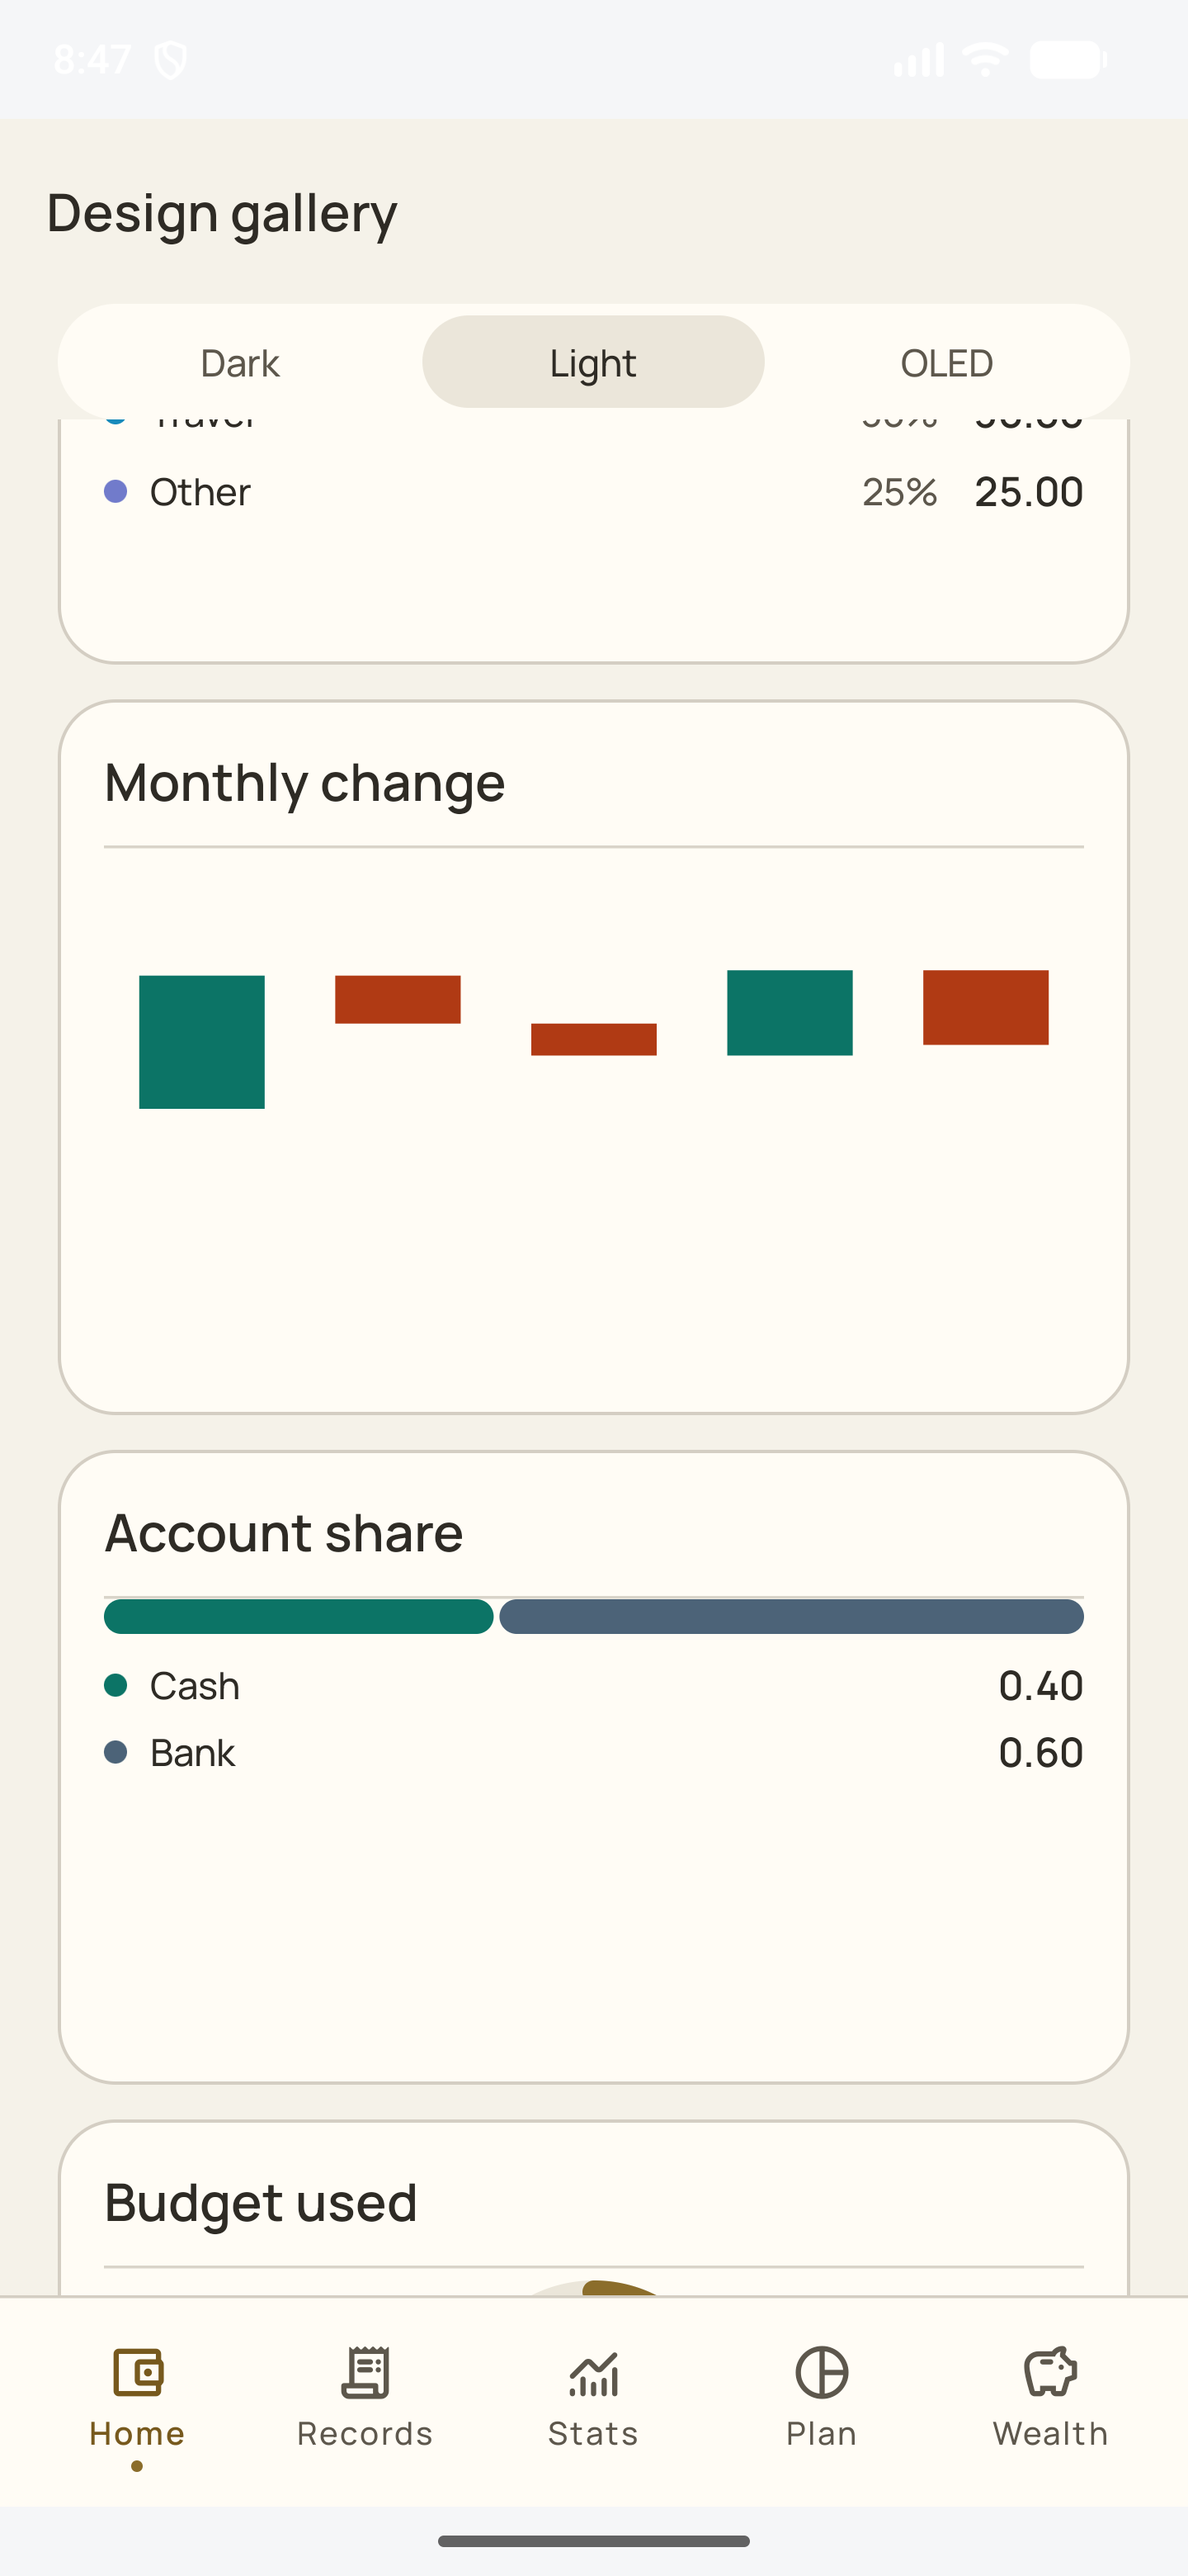
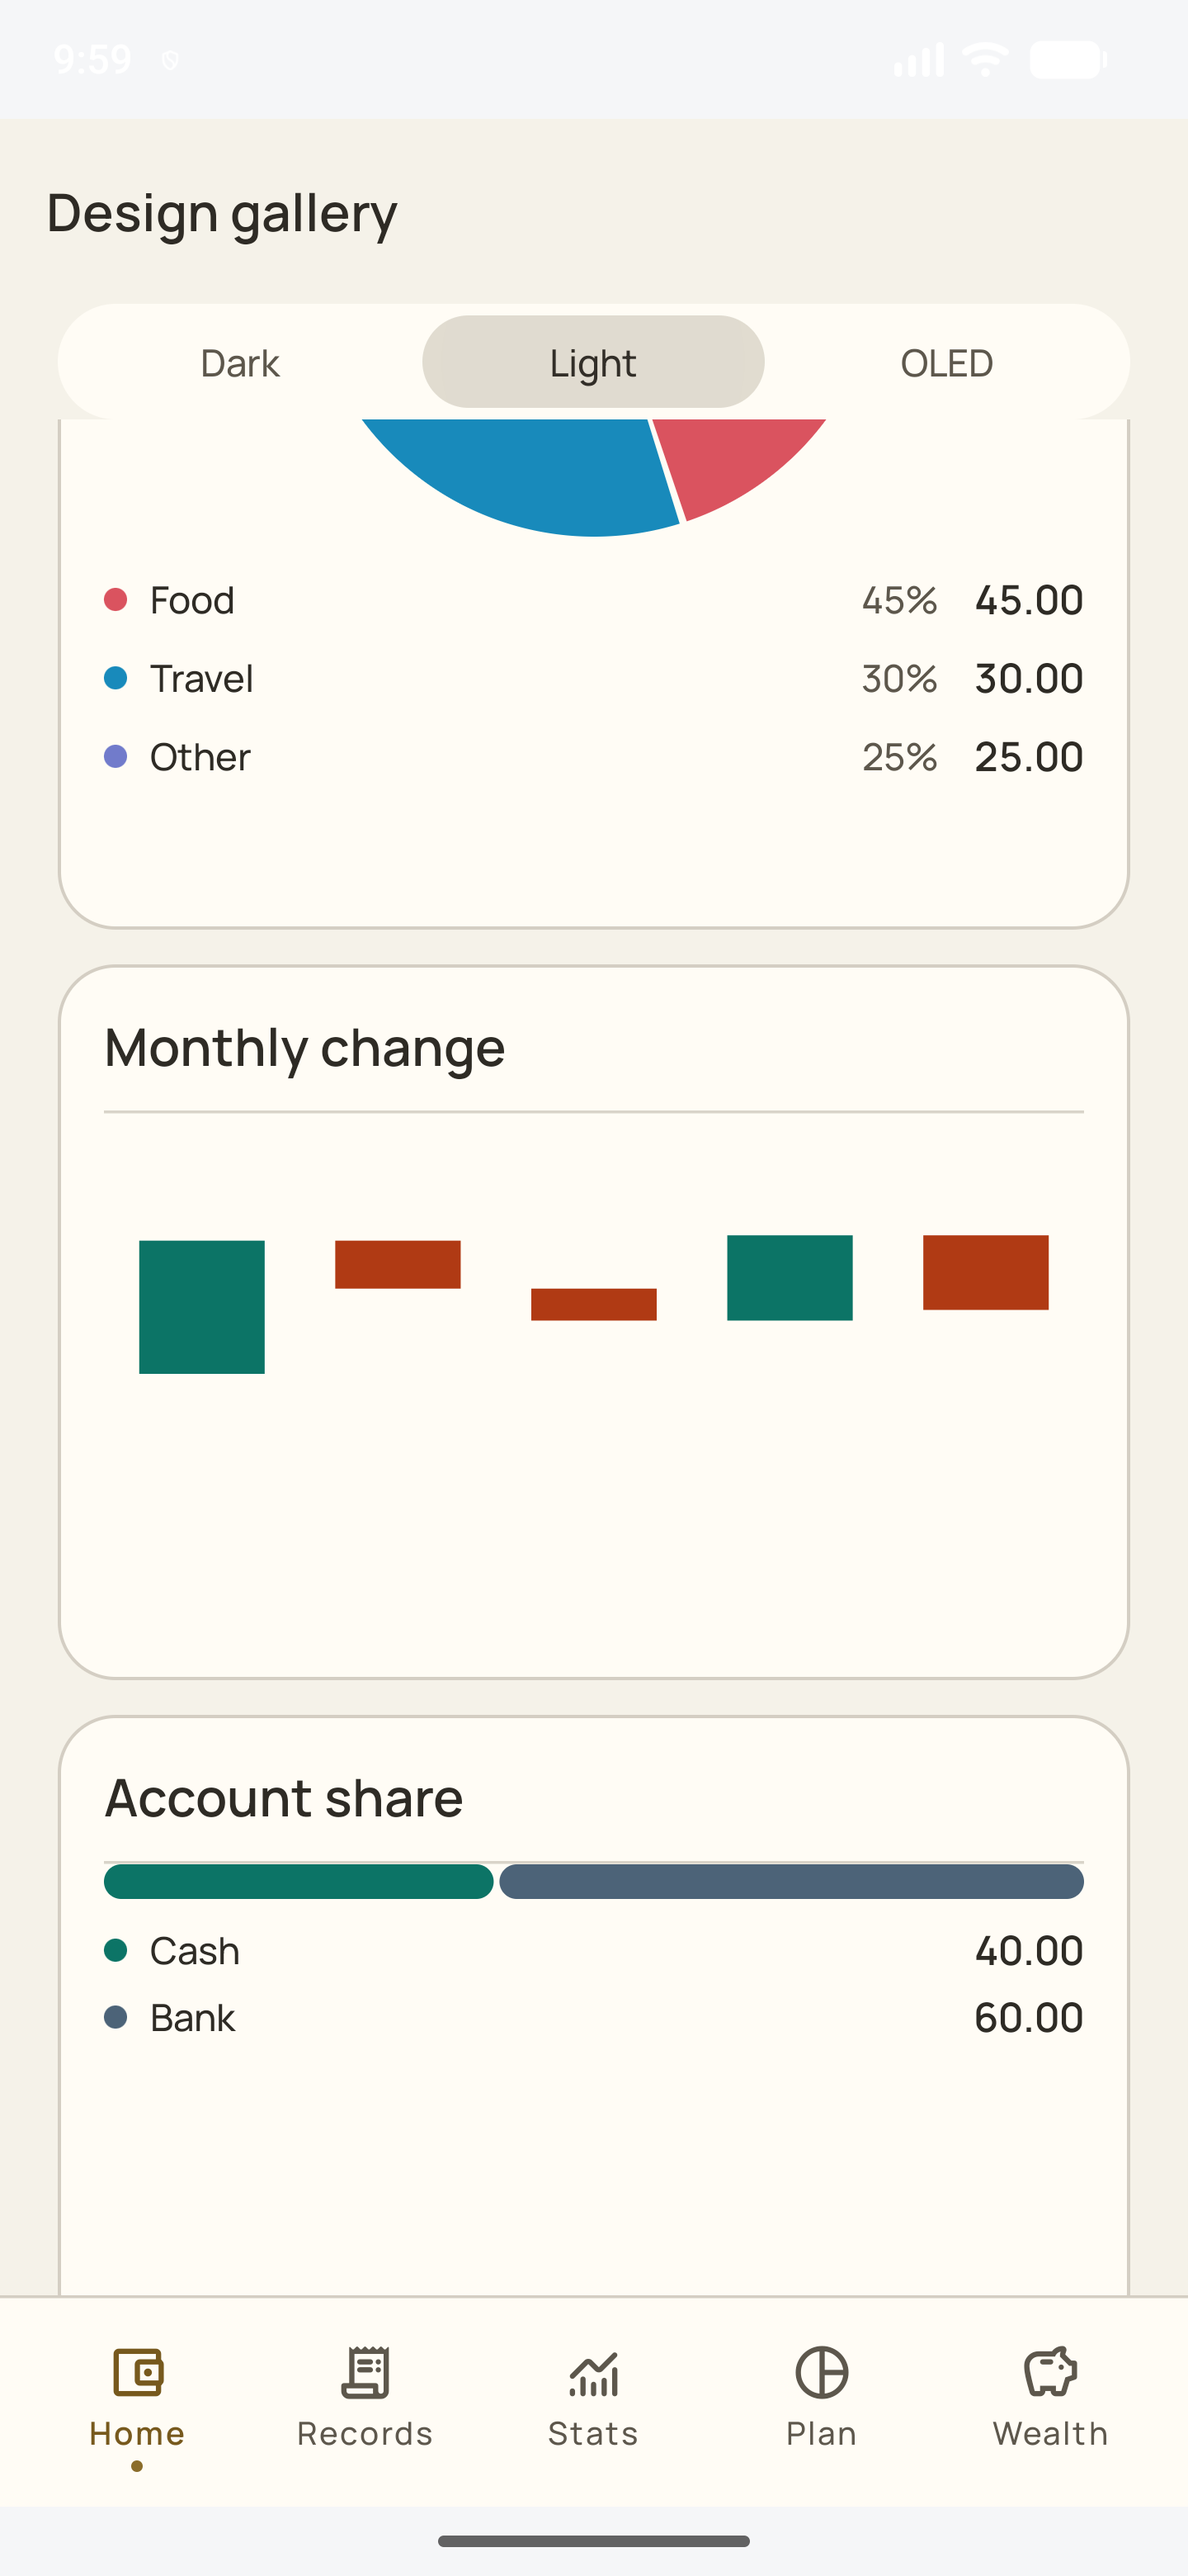
docs(ui): refresh P1 theme verification captures

diff --git a/docs/UI/shots/p1/README.md b/docs/UI/shots/p1/README.md
@@ -17,6 +17,6 @@ To repeat: build and install the debug APK, complete the local onboarding fixtur
 
 ## Third-pass live verification — 2026-10-18
 
-Fresh captures were taken on the running API 37 Pixel_7_Pro emulator at 1440 × 3120 px. The dark, light, and OLED donut captures show the ring and dot/name/share/amount legend without axis labels; `third-pass-dark-composition-ring.png`, `third-pass-light-composition.png`, and `third-pass-oled-composition.png` show the 12dp segmented composition bar (and the dark capture also shows the 20sp budget ring). The three `third-pass-*-states.png` captures show distinct Empty, Loading skeleton, and Error cards; the skeleton blocks are visible. The Empty title/body use theme text colors and the icon circle is 56dp.
+Fresh captures were taken on the running API 37 Pixel_7_Pro emulator at 1440 × 3120 px. The dark, light, and OLED donut captures show the ring and dot/name/share/amount legend without axis labels; `third-pass-dark-composition-ring.png`, `third-pass-light-composition.png`, and `third-pass-oled-composition.png` show the 12dp segmented composition bar and value legend (the dark capture also shows the 20sp budget ring). The three `third-pass-*-states.png` captures show distinct Empty, Loading skeleton, and Error cards; the skeleton blocks are visible. The Empty title/body use theme text colors and the icon circle is 56dp.
 
-The current source and formatting tests already contain the requested P1 behavior, so this verification pass changes screenshot evidence only. `AmountTextTest` covers optional currency, base-currency list signs, hero grouping, the requested golden values, hidden amounts, and negatives.
+Chart-card grid and axis labels now default off; line, area, and bar samples opt in explicitly. `AmountTextTest` covers optional currency, base-currency list signs, hero grouping, the requested golden values, hidden amounts, and negatives. The fresh captures were made from the running app after completing the emulator's local onboarding and opening the gallery through Dev tools.
